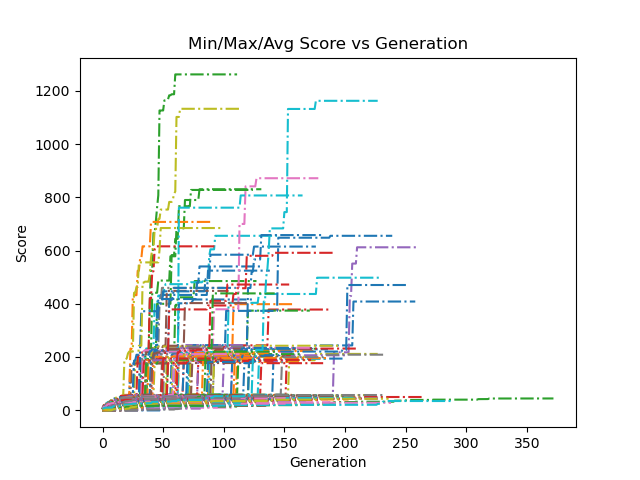
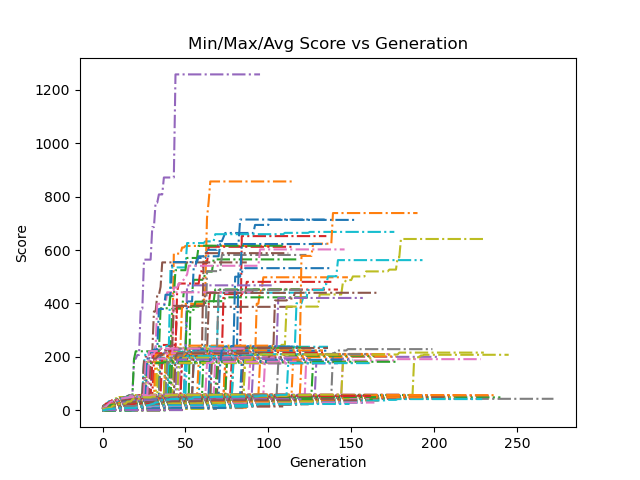
Last improvments to algo (#14)

diff --git a/dsecffxiv/gen_alg_runner.py b/dsecffxiv/gen_alg_runner.py
@@ -42,6 +42,7 @@ class GenAlgShell(cmd2.Cmd):
         self.mutation_chance = 0.01
         self.auto_domain = True
         self.replace_pop = False
+        self.crossover_points = 5
 
         self.add_settable(cmd2.Settable('population_size', int,
                                         'Number of individuals in the population', onchange_cb=self.bind_config))
@@ -58,7 +59,9 @@ class GenAlgShell(cmd2.Cmd):
         self.add_settable(cmd2.Settable('auto_domain',
                                         float, 'Should we use the size to generate the domain', onchange_cb=self.bind_config))
         self.add_settable(cmd2.Settable('replace_pop',
-                                        float, 'Should we replace the current population all with children', onchange_cb=self.bind_config))
+                                        bool, 'Should we replace the current population all with children', onchange_cb=self.bind_config))
+        self.add_settable(cmd2.Settable('crossover_points',
+                                        int, 'How many points to cross over the parents', onchange_cb=self.bind_config))
 
         self.genetic_algorithm: GeneticAlgorithm = None
         self.population_history: List[Population] = list()
@@ -74,6 +77,7 @@ class GenAlgShell(cmd2.Cmd):
         config['tournament_size'] = self.tournament_size
         config['mutation_chance'] = self.mutation_chance
         config['replace_pop'] = self.replace_pop
+        config['crossover_points'] = self.crossover_points
         config['domain'] = list(
             range(1, self.individual_size + 1)) if self.auto_domain else None  # make domain more generic
 

diff --git a/dsecffxiv/algo/genetic_algorithm.py b/dsecffxiv/algo/genetic_algorithm.py
@@ -26,7 +26,8 @@ class GeneticAlgorithm():
         self.crossover_func: Crossover = Default_Crossover
         self.score_func: Score = Default_Score
 
-        self.material_conditions = generate_material_conditions(config['population_size'])
+        self.material_conditions = generate_material_conditions(
+            config['population_size'])
         self.success_rolls = generate_success_values(config['population_size'])
 
         self.population: Union[Population, None] = None
@@ -57,7 +58,8 @@ class GeneticAlgorithm():
             right = self.selection_func(
                 self.population, self.config['tournament_size'])
 
-            new_left, new_right = self.crossover_func((left, right), 2)
+            new_left, new_right = self.crossover_func(
+                (left, right), self.config['crossover_points'])
 
             self.mutation_func(
                 new_left, self.config['mutation_chance'], self.config['domain'])
@@ -101,7 +103,8 @@ class ThreadedGeneticAlgorithm(GeneticAlgorithm):
             right = self.selection_func(
                 self.population, self.config['tournament_size'])
 
-            new_left, new_right = self.crossover_func((left, right), 2)
+            new_left, new_right = self.crossover_func(
+                (left, right), self.config['crossover_points'])
 
             self.mutation_func(
                 new_left, self.config['mutation_chance'], self.config['domain'])

diff --git a/dsecffxiv/multi_runner.py b/dsecffxiv/multi_runner.py
@@ -24,11 +24,12 @@ def assemble_config() -> Dict:
     config['population_size'] = 500
     config['generation_limit'] = 1000
     config['individual_size'] = 50
-    config['selection_size'] = 100
+    config['selection_size'] = 250
     config['tournament_size'] = 50
     config['mutation_chance'] = 0.01
     config['domain'] = list(range(1, 50 + 1))
-    config['replace_pop'] = False
+    config['replace_pop'] = True
+    config['crossover_points'] = 25
 
     return config
 
@@ -106,7 +107,7 @@ if __name__ == '__main__':
                 max_pop = max(max_pop, m_pop, key=Default_Score)
 
             # plt.plot(min_g, min_v, '-', label='Min Score')
-            plt.plot(max_g, max_v, '-.', label='Max Score')
+            plt.plot(max_g, max_v, '-', label='Max Score')
             # plt.plot(avg_g, avg_v, ':', label='Avg Score')
 
     print("{0} => {1}".format(str(max_pop), Default_Score(max_pop)))
@@ -114,6 +115,6 @@ if __name__ == '__main__':
     plt.xlabel('Generation')
     plt.ylabel('Score')
 
-    plt.title('Min/Max/Avg Score vs Generation')
+    plt.title('Max Score vs Generation')
     # plt.legend()
     plt.show()
